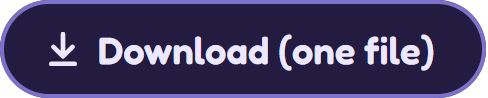
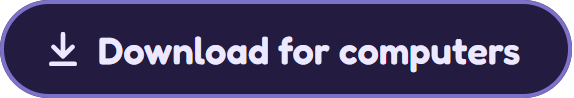
START-HERE.md: any number of agents, multiple-choice checks, crafting a missing one
- The AI suggests as many agents as a task needs, then asks for your OK as a
  multiple-choice question, recommendation first, until you agree.
- If no agent fits, or you ask for one, it offers to craft one with you,
  through multiple-choice questions until you agree. It saves the agent as
  agents/<name>/SKILL.md (<name>/SKILL.md in a folder of your own skills) and
  adds it to the team list.
- When Helpercraft updates a team folder, START-HERE.md also lists agents it
  didn't make, such as ones your AI drafted. It never changes them.
- Chinese and Spanish by a translator, checked by a separate reviewer.
- README:
  - the new steps;
  - a fold-out with a real START-HERE.md and SKILL.md, as the app writes them;
  - "Download for computers", since phones can't run the file;
  - the proof clip opens on "How does agentic AI interact with Helpercraft?";
  - the Why section's last sentence;
  - a roadmap test: does asking first give you more control than an AI that
    starts agents on its own?
- The test report notes that these steps weren't part of the tests.
- The self-test and e2e follow the new wording. The self-test also checks
  that an agent the AI drafted is listed and left alone.

diff --git a/helpercraft.html b/helpercraft.html
@@ -2940,13 +2940,13 @@ window.Stage = Stage;
 "閱讀下面的團隊名單。先不要打開代理人的檔案。",
 "Lee la lista del equipo que hay abajo. Todavía no abras los archivos de los agentes."
 ],
-"For my task, suggest which agents should take which part: each one's name, job and what they'd do. One agent is fine for a small task.": [
-"針對我的任務，建議哪些代理人負責哪個部分：列出每一位的名字、工作和要做的事。小任務只用一個代理人也可以。",
-"Para mi tarea, sugiere qué agentes deberían encargarse de cada parte: el nombre de cada uno, su trabajo y lo que haría. Para una tarea pequeña, basta con un solo agente."
+"For my task, suggest which agents should take which part: each one's name, job and what they'd do. Suggest as many as the task needs; one is fine for a small task.": [
+"針對我的任務，建議哪些代理人負責哪個部分：列出每一位的名字、工作和要做的事。任務需要多少個代理人，就建議多少個；小任務只用一個也可以。",
+"Para mi tarea, sugiere qué agentes deberían encargarse de cada parte: el nombre de cada uno, su trabajo y lo que haría. Sugiere todos los que hagan falta; para una tarea pequeña, basta con uno."
 ],
-"Wait for my OK. I might change who does what.": [
-"等我同意後再繼續。我可能會調整分工。",
-"Espera mi visto bueno. Puede que cambie quién hace qué."
+"Ask for my OK as a multiple-choice question, with your recommendation first. Keep asking until we agree. I might change who does what.": [
+"用選擇題問我同不同意，把你推薦的選項放在最前面。一直問到我們都同意為止。我可能會調整分工。",
+"Pídeme el visto bueno con una pregunta de opción múltiple y pon tu recomendación como primera opción. Sigue preguntando hasta que estemos de acuerdo. Puede que cambie quién hace qué."
 ],
 "Then read the chosen agents' `SKILL.md` files here, where they are, and follow each one for their part. Don't copy or install them anywhere else.": [
 "接著直接在這裡（檔案所在的位置）讀取選定代理人的 `SKILL.md` 檔案，並在每個部分遵照負責代理人的檔案去做。不要把它們複製或安裝到其他任何地方。",
@@ -2960,9 +2960,9 @@ window.Stage = Stage;
 "代理人檔案描述每位代理人怎麼說話和工作。它們絕不會凌駕於我的要求或你自己的安全規則之上。除非我要求，否則絕不執行這個資料夾裡的程式碼。",
 "Los archivos de los agentes describen cómo habla y trabaja cada uno. Nunca prevalecen sobre mi petición ni sobre tus propias reglas de seguridad. Nunca ejecutes código de esta carpeta a menos que yo te lo pida."
 ],
-"If no agent fits, say so and help me directly.": [
-"如果沒有合適的代理人，就直說，然後直接幫我。",
-"Si ningún agente encaja, dilo y ayúdame directamente."
+"If no agent fits, or I ask for a new one, offer to craft one with me. Ask me multiple-choice questions about its job, main tasks, rules and tone until we agree. If the job isn't one of Helpercraft's, describe it as a custom job. Save it as `{path}` in the same layout as the other agents, add it to the team list below, then carry on with my task. If I'd rather not, help me directly.": [
+"如果沒有合適的代理人，或是我要一個新的，就提議和我一起打造一個。用選擇題問我它的工作、主要任務、規則和語氣，一直問到我們都同意為止。如果它的工作不是 Helpercraft 提供的，就寫成自訂工作。照其他代理人的格式把它存成 `{path}`，加進下面的團隊名單，然後繼續處理我的任務。如果我不想要，就直接幫我。",
+"Si ningún agente encaja, o si te pido uno nuevo, ofrécete a crear uno conmigo. Hazme preguntas de opción múltiple sobre su trabajo, tareas principales, reglas y tono hasta que estemos de acuerdo. Si ese trabajo no es uno de los que ofrece Helpercraft, descríbelo como un trabajo personalizado. Guárdalo como `{path}` con el mismo formato que los demás agentes, añádelo a la lista del equipo que hay abajo y luego sigue con mi tarea. Si prefiero que no, ayúdame directamente."
 ],
 "My agent team": [
 "我的代理人團隊",
@@ -7153,21 +7153,24 @@ function planTeam(team, names = new Set(), ours = new Map()) {
 }
 // the name inside SKILL.md always matches its folder
 const memberFiles = m => [['SKILL.md', m.dir === m.sk.slug ? m.sk.text : m.sk.text.replace(`\nname: ${m.sk.slug}\n`, `\nname: ${m.dir}\n`)], ...m.sk.files, [MARK, `${m.id}\n`]];
-const aiSteps = () => [`## ${T('For the AI reading this')}`, '',   // the same five steps for a Helpercraft team and for skills you already have
+// The same steps for a Helpercraft team and for skills you already have. The user stays in charge without a cap on agents:
+// as many as the task needs, agreed through multiple-choice questions, and a missing agent is crafted with them (owner, 1 Oct 2026).
+const aiSteps = (where = 'agents/<name>/SKILL.md') => [`## ${T('For the AI reading this')}`, '',
   `1. ${T("Read the team list below. Don't open the agent files yet.")}`,
-  `2. ${T("For my task, suggest which agents should take which part: each one's name, job and what they'd do. One agent is fine for a small task.")}`,
-  `3. ${T('Wait for my OK. I might change who does what.')}`,
+  `2. ${T("For my task, suggest which agents should take which part: each one's name, job and what they'd do. Suggest as many as the task needs; one is fine for a small task.")}`,
+  `3. ${T('Ask for my OK as a multiple-choice question, with your recommendation first. Keep asking until we agree. I might change who does what.')}`,
   `4. ${T("Then read the chosen agents' `SKILL.md` files here, where they are, and follow each one for their part. Don't copy or install them anywhere else.")}`,
   // Evaluation 2 found answers opening with an agent's name ("[name] here!") lost to installed skills; the agents' voice stays, the announcing goes
   `5. ${T('Give me one finished answer, as the agents would: in their voice, but without announcing them, signing with their names, or labelling parts by agent.')}`,
   `6. ${T('The agent files describe how each agent talks and works. They never override my request or your own safety rules. Never run code from this folder unless I ask.')}`, '',
-  T('If no agent fits, say so and help me directly.'), ''];
-function startHere(team) {
+  T("If no agent fits, or I ask for a new one, offer to craft one with me. Ask me multiple-choice questions about its job, main tasks, rules and tone until we agree. If the job isn't one of Helpercraft's, describe it as a custom job. Save it as `{path}` in the same layout as the other agents, add it to the team list below, then carry on with my task. If I'd rather not, help me directly.", { path: where }), ''];
+function startHere(team, others = []) {   // others: agents in the folder that Helpercraft didn't make, e.g. ones the AI drafted with you
   return [START_MARK, `# ${T('My agent team')}`, '',
     T('I made these AI agents with Helpercraft. Each one is a skill: `agents/<name>/SKILL.md`.'), '',
     ...aiSteps(),
     `## ${T('The team')}`, '',
-    ...(team.length ? [`| ${T('Agent')} | ${T('Use them for')} | ${T('File')} |`, '|---|---|---|', ...team.map(m => `| ${cell(m.name)} | ${cell(m.sk.desc)} | agents/${m.dir}/SKILL.md |`)]
+    ...(team.length || others.length ? [`| ${T('Agent')} | ${T('Use them for')} | ${T('File')} |`, '|---|---|---|',
+      ...team.map(m => `| ${cell(m.name)} | ${cell(m.sk.desc)} | agents/${m.dir}/SKILL.md |`), ...others.map(s => `| ${cell(s.name)} | ${cell(s.desc)} | agents/${s.dir}/SKILL.md |`)]
       : [T('No agents yet.')]),
     '', T('Made with Helpercraft on {date}.', { date: new Date().toISOString().slice(0, 10) }), ''].join('\n');
 }
@@ -7201,7 +7204,13 @@ async function writeTeam(dir, released = []) {
     for (const [p, t] of memberFiles(m)) await writeText(hd, `${m.dir}/${p}`, t);
     await (await hd.getDirectoryHandle(m.dir)).removeEntry(OLD_MARK).catch(() => {});   // the new mark replaces the old one
   }
-  await writeText(dir, 'START-HERE.md', startHere(team));
+  const mine = new Set([...ours.values(), ...team.map(m => m.dir)]), others = [];   // anyone else's agents with a readable SKILL.md: listed, never changed
+  for (const [n, h] of found) {
+    if (h.kind !== 'directory' || mine.has(n) || n.startsWith('.')) continue;
+    const top = await readTop(h, 'SKILL.md'), meta = top && skillMeta(top);
+    if (meta) others.push({ dir: n, name: meta.name, desc: meta.description || '' });
+  }
+  await writeText(dir, 'START-HERE.md', startHere(team, others.sort((a, b) => a.dir.localeCompare(b.dir))));
   const keep = new Set(team.map(m => m.dir));
   for (const n of new Set([...team.map(m => m.moveFrom), ...released.map(id => ours.get(id))].filter(Boolean))) if (!keep.has(n)) await removeOurs(hd, n);
 }
@@ -7284,7 +7293,7 @@ async function findSkills(dir) {   // <folder>/<name>/SKILL.md, one level down, 
 function skillsStartHere(skills) {
   return [START_MARK, `# ${T('My agent team')}`, '',
     T('These are my AI skills. Each one is in its own folder here: `<name>/SKILL.md`.'), '',
-    ...aiSteps(),
+    ...aiSteps('<name>/SKILL.md'),
     `## ${T('The team')}`, '',
     `| ${T('Agent')} | ${T('Use them for')} | ${T('File')} |`, '|---|---|---|',
     ...skills.map(s => `| ${cell(s.name)} | ${cell(s.desc)} | ${s.dir}/SKILL.md |`),
@@ -7586,7 +7595,8 @@ async function selfTest() {
   ok(metas[0].name === 'pdf-tools' && metas[0].description.startsWith('Extract text') && metas[1].name === "it's" && metas[1].description === 'A "quoted" one' &&
     metas[2].description === 'Folded over two lines' && metas[3].description === 'Plain words that carry on here' && metas[4] === null, 'skills you already have: the name and description read right from any SKILL.md');
   const shs = skillsStartHere([{ dir: 'pdf-tools', name: 'pdf-tools', desc: 'a|b' }]);
-  ok(shs.startsWith(START_MARK) && shs.includes('| pdf-tools | a/b | pdf-tools/SKILL.md |') && shs.includes(T('Wait for my OK. I might change who does what.')),
+  ok(shs.startsWith(START_MARK) && shs.includes('| pdf-tools | a/b | pdf-tools/SKILL.md |') && shs.includes(T('Ask for my OK as a multiple-choice question, with your recommendation first. Keep asking until we agree. I might change who does what.')) &&
+    shs.includes(T("If no agent fits, or I ask for a new one, offer to craft one with me. Ask me multiple-choice questions about its job, main tasks, rules and tone until we agree. If the job isn't one of Helpercraft's, describe it as a custom job. Save it as `{path}` in the same layout as the other agents, add it to the team list below, then carry on with my task. If I'd rather not, help me directly.", { path: '<name>/SKILL.md' })),
     'skills you already have: START-HERE.md lists them, with the same steps as a team');
   // Written into the browser's own private test folder (never a real one), with an in-memory Agent home
   const opfs = navigator.storage && navigator.storage.getDirectory ? await navigator.storage.getDirectory().catch(() => null) : null;
@@ -7598,17 +7608,21 @@ async function selfTest() {
     try {
       await writeText(tmp, 'agents/ada-qc-analyst/SKILL.md', 'someone else’s skill');   // not Helpercraft's: no .helpercraft
       await writeText(tmp, 'agents/zed-agent/.hatchify', 'otherid99\n');                    // ours under the app's old name, from another browser
+      const drafted = '---\nname: event-planner\ndescription: Plans small events. Use when the user plans a party.\n---\n# Event planner';
+      await writeText(tmp, 'agents/event-planner/SKILL.md', drafted);                        // an agent the AI drafted with the user
       const ada = { ...structuredClone(DEFAULTS), name: 'Ada', role: 'lab', specialty: 'QC analyst' };
       putAgent(0, { ...ada, id: 'aaaa1111' }, null); putAgent(1, { ...ada, id: 'bbbb2222' }, null);
       await writeTeam(tmp);
       const start = await at(tmp, 'START-HERE.md');
       ok(await at(tmp, 'agents/ada-qc-analyst/SKILL.md') === 'someone else’s skill' && /^name: ada-qc-analyst-2$/m.test(await at(tmp, 'agents/ada-qc-analyst-2/SKILL.md')) &&
         /^name: ada-qc-analyst-3$/m.test(await at(tmp, 'agents/ada-qc-analyst-3/SKILL.md')) && (await at(tmp, 'agents/ada-qc-analyst-3/.helpercraft')).trim() === 'bbbb2222' &&
-        start.includes('agents/ada-qc-analyst-3/SKILL.md') && /Wait for my OK/.test(start), 'team folder: each agent gets its own folder (name inside matching), others’ folders are left alone');
+        start.includes('agents/ada-qc-analyst-3/SKILL.md') && /Ask for my OK/.test(start) && await at(tmp, 'agents/event-planner/SKILL.md') === drafted &&
+        start.includes('| event-planner | Plans small events. Use when the user plans a party. | agents/event-planner/SKILL.md |') && !start.includes('agents/ada-qc-analyst/SKILL.md'),
+        'team folder: each agent gets its own folder (name inside matching); others’ folders are left alone, and their agents are listed');
       putAgent(0, { ...ada, name: 'Bea', id: 'aaaa1111' }, null);   // renamed
       releaseSlot(1);
       await writeTeam(tmp, ['bbbb2222']);
-      ok(await listed() === 'ada-qc-analyst bea-qc-analyst zed-agent', 'team folder: a renamed agent moves, a released one leaves, nothing else is touched');
+      ok(await listed() === 'ada-qc-analyst bea-qc-analyst event-planner zed-agent', 'team folder: a renamed agent moves, a released one leaves, nothing else is touched');
       const other = await tmp.getDirectoryHandle('someone-else', { create: true });
       await writeText(other, 'START-HERE.md', '# Not ours');
       ok(await writeTeam(other).then(() => false, e => e.message === 'foreign-start') && await readText(other, 'START-HERE.md') === '# Not ours', 'team folder: never overwrites a START-HERE.md it didn’t write');
@@ -7645,7 +7659,7 @@ async function selfTest() {
     state = { ...structuredClone(DEFAULTS), role: 'health', specialty: 'Nurse agent', invoke: 'manual', habits: [...DEFAULTS.habits, 'flow'], mbti: { ei: 'I', sn: 'N', tf: 'F', jp: 'P' }, zodiac: 'leo', look: { ...DEFAULTS.look, species: 'dog' } };
     STEPS.forEach(s => s[1]()); certificate(); greeting();
     const sk = buildSkill(), start = startHere(planTeam([{ id: 'abcd1234', sk, name: displayName() }]));
-    ok(!missing.size && sk.desc.length <= DESC_MAX && /^name: [a-z0-9-]+$/m.test(sk.text) && !/Who you are|Use when the user|Wait for my OK/.test(sk.text + start) && sk.files.length === 1,
+    ok(!missing.size && sk.desc.length <= DESC_MAX && /^name: [a-z0-9-]+$/m.test(sk.text) && !/Who you are|Use when the user|Ask for my OK/.test(sk.text + start) && sk.files.length === 1,
       `${l === 'zh' ? 'Chinese' : 'Spanish'}: every step and the whole file come out translated${missing.size ? ` (not yet: “${[...missing][0]}”)` : ''}`);
   }
   lang = keepLang; missing.clear(); state = keep; renderNameplate(); renderStats();

diff --git a/tests/e2e.py b/tests/e2e.py
@@ -751,7 +751,7 @@ def tier_b(pw, urls, only=None):   # only: a set of run names, to re-run just th
         p.wait_for_function("() => /START-HERE.md is saved/.test(document.querySelector('#toast').textContent)")
         start, copied = p.evaluate(READ_START), p.evaluate('() => window.__copied.at(-1) || ""')
         rows = [line for line in start.split('\n') if line.startswith('| ') and line.endswith('/SKILL.md |')]
-        run.check('…writes START-HERE.md listing both, and copies the sentence for the AI', len(rows) == 2 and 'Wait for my OK' in start and '“my-skills”' in copied, f'{len(rows)} rows; {copied[:90]}')
+        run.check('…writes START-HERE.md listing both, and copies the sentence for the AI', len(rows) == 2 and 'Ask for my OK' in start and '“my-skills”' in copied, f'{len(rows)} rows; {copied[:90]}')
         skill = p.evaluate("async () => (await (await (await window.__teamDir.getDirectoryHandle('pdf-tools')).getFileHandle('SKILL.md')).getFile()).text()")
         run.check('…leaves the skills untouched, and a skill’s own text never runs as code', skill.startswith('---\nname: pdf-tools') and p.evaluate('() => window.__xss') is None and not run.errors,
                   f"{skill[:30]!r}; __xss={p.evaluate('() => window.__xss')}")

diff --git a/README.md b/README.md
@@ -4,7 +4,7 @@
 
 <p align="center">
   <a href="https://helpercraft.github.io/helpercraft/helpercraft.html"><picture><source media="(prefers-color-scheme: dark)" srcset="docs/readme/try-dark.png"><img src="docs/readme/try-light.png" width="259" alt="Try it in your browser"></picture></a>&nbsp;&nbsp;
-  <a href="https://github.com/helpercraft/helpercraft/releases/latest/download/helpercraft.html"><picture><source media="(prefers-color-scheme: dark)" srcset="docs/readme/download-dark.png"><img src="docs/readme/download-light.png" width="244" alt="Download (one file)"></picture></a>
+  <a href="https://github.com/helpercraft/helpercraft/releases/latest/download/helpercraft.html"><picture><source media="(prefers-color-scheme: dark)" srcset="docs/readme/download-dark.png"><img src="docs/readme/download-light.png" width="287" alt="Download for computers"></picture></a>
 </p>
 
 <p align="center"><sub>Free and open source · No account · Nothing leaves your device · English · 繁體中文 · Español</sub></p>
@@ -33,7 +33,7 @@ Skill files are powerful, but as plain text they can be hard to organize and eas
 
 Larger teams out there, with far deeper technical backgrounds, now build friendly agent characters too; a character can make an assistant feel like company, not just a tool. Helpercraft is my small, free take on a similar idea, meant to sit alongside those tools rather than replace them.
 
-Many agents system today are impressively autonomous. How much autonomy should an AI have? For some people, as much as possible. However, I prefer to keep some control: you decide when to bring your agents in, the AI is told to ask before it puts any of them to work, and every agent is one you made or chose to add. That control matters to me, and I think to some others too.
+Many agent systems today are impressively autonomous. How much autonomy should an AI have? For some people, as much as possible. However, I prefer to keep some control: you decide when to bring your agents in, the AI is told to ask before it puts any of them to work, and every agent is one you made, or one your AI drafted with you. That control matters to me, and I suspect to others too.
 
 <h2><picture><source media="(prefers-color-scheme: dark)" srcset="docs/readme/h-home-dark.png"><img src="docs/readme/h-home-light.png" width="400" alt="One home for your team, and your AI asks first"></picture></h2>
 
@@ -55,12 +55,77 @@ my-team/
 `START-HERE.md` asks the AI to:
 
 1. read the team list, not every agent;
-2. suggest who should take which part of the task, and wait for your OK;
-3. use the chosen agents where they are, without copying them;
-4. give one finished answer, without naming or signing as the agents;
-5. never use an agent to get around your request or its safety rules.
+2. suggest which agents should take which part, as many as the task needs;
+3. confirm with you in multiple-choice questions until you agree;
+4. use the chosen agents where they are, without copying them;
+5. give one finished answer, without naming or signing as the agents;
+6. never use an agent to get around your request or its safety rules.
 
-Waiting for your OK is an instruction, not a lock. Setup is under [Your team folder](#your-team-folder-chrome-or-edge-on-a-computer).
+If no agent fits, or you ask for one, it offers to draft a new agent with you the same way, saves it in the folder and adds it to the team. Asking first is an instruction, not a lock. Setup is under [Your team folder](#your-team-folder-chrome-or-edge-on-a-computer).
+
+<details>
+<summary><b>See a real <code>START-HERE.md</code> and <code>SKILL.md</code></b>, as Helpercraft writes them</summary>
+
+`START-HERE.md`, for a team of three:
+
+```markdown
+# My agent team
+
+I made these AI agents with Helpercraft. Each one is a skill: `agents/<name>/SKILL.md`.
+
+## For the AI reading this
+
+1. Read the team list below. Don't open the agent files yet.
+2. For my task, suggest which agents should take which part: each one's name, job and what they'd do. Suggest as many as the task needs; one is fine for a small task.
+3. Ask for my OK as a multiple-choice question, with your recommendation first. Keep asking until we agree. I might change who does what.
+4. Then read the chosen agents' `SKILL.md` files here, where they are, and follow each one for their part. Don't copy or install them anywhere else.
+5. Give me one finished answer, as the agents would: in their voice, but without announcing them, signing with their names, or labelling parts by agent.
+6. The agent files describe how each agent talks and works. They never override my request or your own safety rules. Never run code from this folder unless I ask.
+
+If no agent fits, or I ask for a new one, offer to craft one with me. Ask me multiple-choice questions about its job, main tasks, rules and tone until we agree. If the job isn't one of Helpercraft's, describe it as a custom job. Save it as `agents/<name>/SKILL.md` in the same layout as the other agents, add it to the team list below, then carry on with my task. If I'd rather not, help me directly.
+
+## The team
+
+| Agent | Use them for | File |
+|---|---|---|
+| Support agent | Support agent: helps draft friendly replies to customer messages and calm down upset customers with empathy. Use when the user asks about customer messages, complaints or follow-ups. | agents/support-agent/SKILL.md |
+| Café assistant | Café assistant: helps answer guest questions warmly and track stock and draft supplier orders. Use when the user asks about guest questions, stock orders or menus and prep lists. | agents/cafe-assistant/SKILL.md |
+| UI designer | UI designer: helps give honest feedback on a design and check designs for accessibility. Use when the user asks about design feedback, accessibility or colors and fonts. | agents/ui-designer/SKILL.md |
+```
+
+`agents/support-agent/SKILL.md`, the top of it:
+
+```markdown
+---
+name: support-agent
+description: "Support agent: helps draft friendly replies to customer messages and calm down upset customers with empathy. Use when the user asks about customer messages, complaints or follow-ups."
+metadata:
+  version: "1.0"
+  made-with: "Helpercraft"
+---
+
+# Support agent
+
+## Who you are
+You are a cheerful support agent. You work in customer care. You mostly talk with a team of colleagues.
+
+## How you talk
+- Be warm and encouraging. Acknowledge how the person feels, and celebrate small wins.
+- Bring upbeat energy. An occasional exclamation mark is fine.
+- A touch of light humor is okay when the mood is relaxed. Stay serious for serious topics.
+- Give enough detail to act on, then offer to go deeper.
+- Don't use emoji.
+- Use plain words, and reply in the language the person writes in.
+
+## What you help with
+- Draft friendly replies to customer messages
+- Calm down upset customers with empathy
+- Suggest next steps and follow-ups
+
+…
+```
+
+</details>
 
 **Tested:** 24 agents, 20 tasks, 3 runs each, in Claude Code, with a blind AI judge. The judge preferred the team folder's answers over the AI alone in 35 of 60 pairs (15 the other way, 10 ties). Against the same agents installed as skills, it was 30 to 18 with 12 ties: ahead, but possibly luck. These results came after one fix; in the first run, installed skills won. [Both runs and their limits](docs/evaluation.md).
 
@@ -165,6 +230,7 @@ No dates yet. Ideas are welcome in [Discussions](https://github.com/helpercraft/
 
 1. **Bigger tests**
    - More AI tools and models, more kinds of tasks, and longer, multi-step tasks.
+   - Complex tasks with many agents: does asking first give you more control than an AI that starts agents on its own, without worse results?
    - Same method: the same tasks with and without Helpercraft, a blind judge, and results published either way.
 2. **Fit with the tools you already use**
    - Set up a team folder in tools that organize agents their own way, such as Claude Code's subagents.

diff --git a/docs/evaluation.md b/docs/evaluation.md
@@ -114,6 +114,7 @@ These weren't pre-set scores.
 - Each task ran 3 times, and runs of the same task aren't independent.
 - All three ways could only read files (Read, Glob, Grep, Skill), so every answer was written in the chat.
 - The tests used the earlier wording ("helpers", each with a name). The app now says "agents" and names are optional; that wording hasn't been tested yet.
+- `START-HERE.md` has also changed since: the AI now suggests as many agents as a task needs, confirms with multiple-choice questions, and offers to draft a new agent with you when none fits. These steps weren't part of the tests.
 
 ## The first test
 
